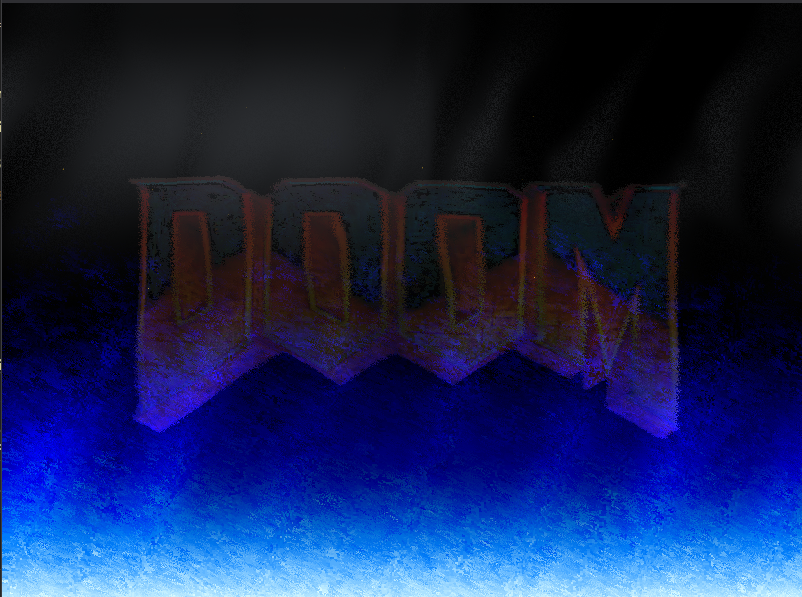
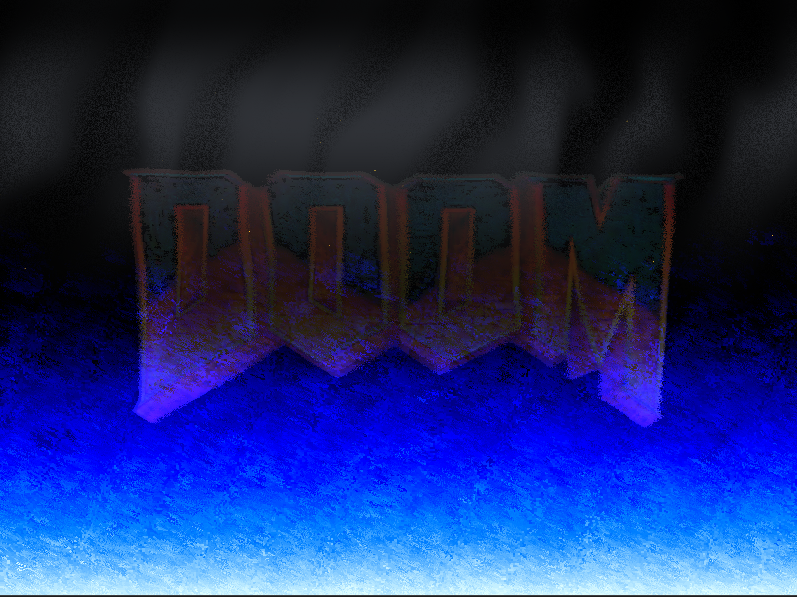
improving

diff --git a/groove_rasterizer/rasterizer.h b/groove_rasterizer/rasterizer.h
@@ -2,7 +2,7 @@
 
 #include <cstdlib>
 #include <cmath>
-
+#include <string.h>
 #include <random>
 #include <vector>
 #include <stdint.h>
@@ -250,6 +250,20 @@ private:
 
     }
 
+    inline void restart_fire()
+    {
+        memset(fire_matrix.data(),0,fire_matrix_width * fire_matrix_height * sizeof(uint32_t));
+        fire_matrix[0] = fire_matrix_width ;
+        fire_matrix[1] = fire_matrix_height;
+        fire_matrix[2] = scale_x;
+        fire_matrix[3] = scale_y;
+
+        for(size_t x = 0 ; x < fire_matrix_width; ++x)
+        {
+            fire_matrix[4 + x] =  palette_index * palette_size ;
+        }
+    }
+
     inline void update_fire_matrix()
     {
 
@@ -364,7 +378,7 @@ private:
 
     size_t fire_height = 37;
 
-    size_t palette_index = 1;
+    size_t palette_index = 3;
 
 
     size_t scale_x = 2;
@@ -396,17 +410,7 @@ private:
         // On réserve la taille : 2 emplacements (pour X et Y) + la taille du tableau 2D linéarisé
         fire_matrix.resize( 4 + fire_matrix_width * fire_height, 0);
 
-        fire_matrix[0] = fire_matrix_width ;
-        fire_matrix[1] = fire_matrix_height;
-        fire_matrix[2] = scale_x;
-        fire_matrix[3] = scale_y;
-
-
-
-        for(size_t x = 0 ; x < fire_matrix_width; ++x)
-        {
-            fire_matrix[4 + x] =  palette_index * palette_size ;
-        }
+        restart_fire();
 
          m_rhi = rhi();
         if (!m_rhi) {
